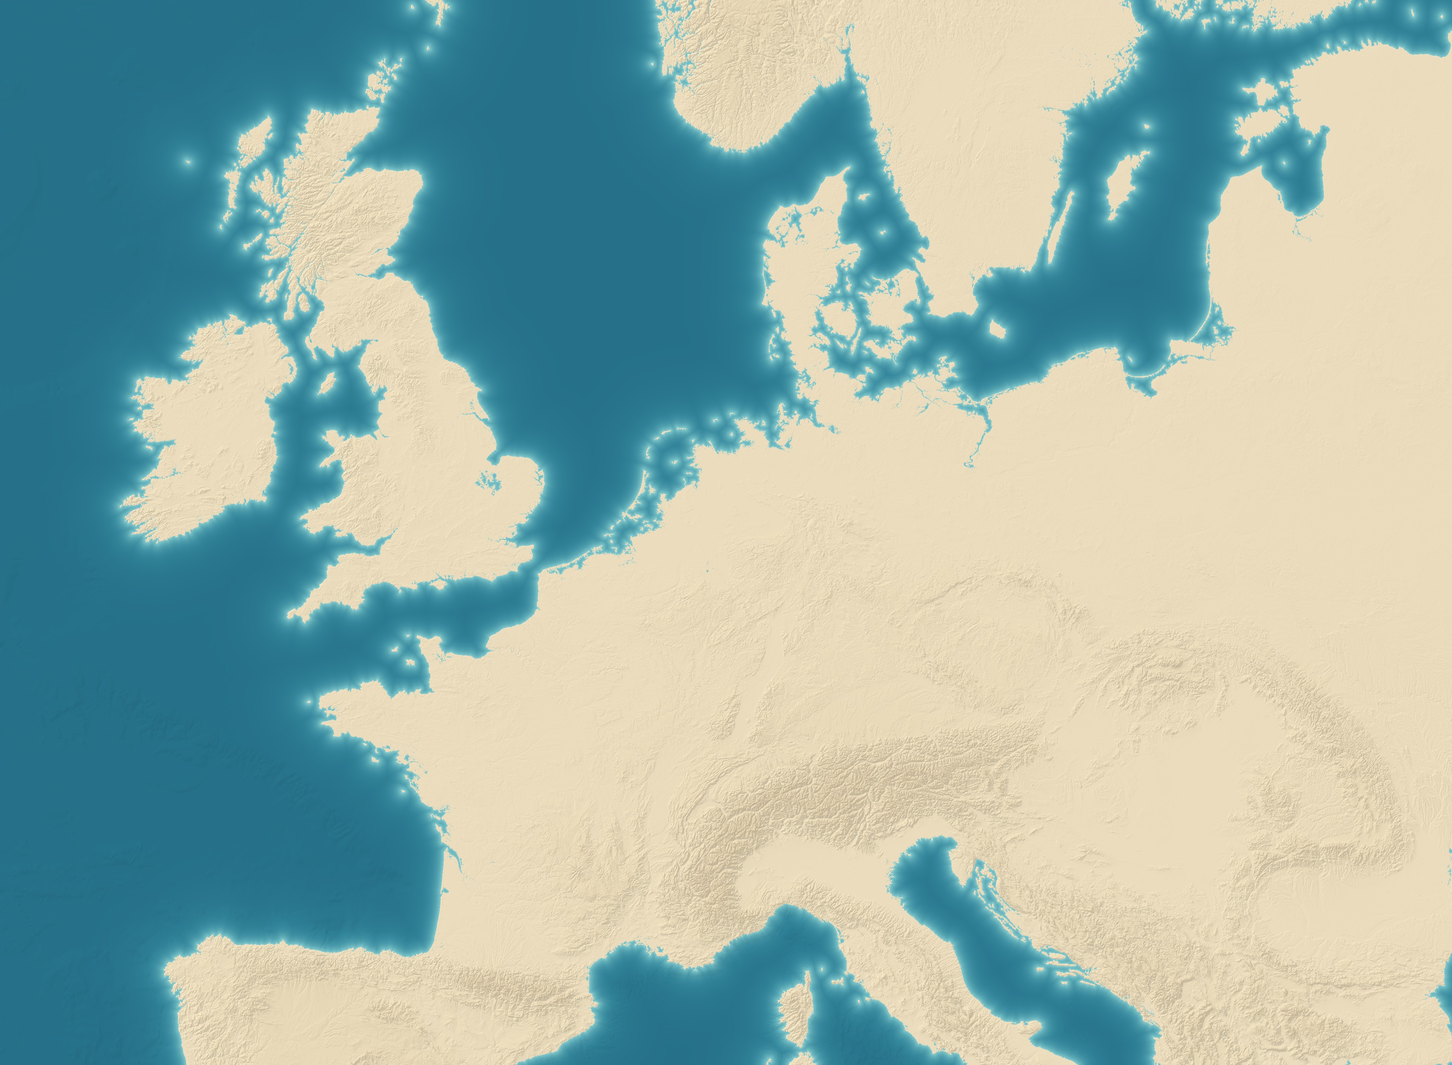
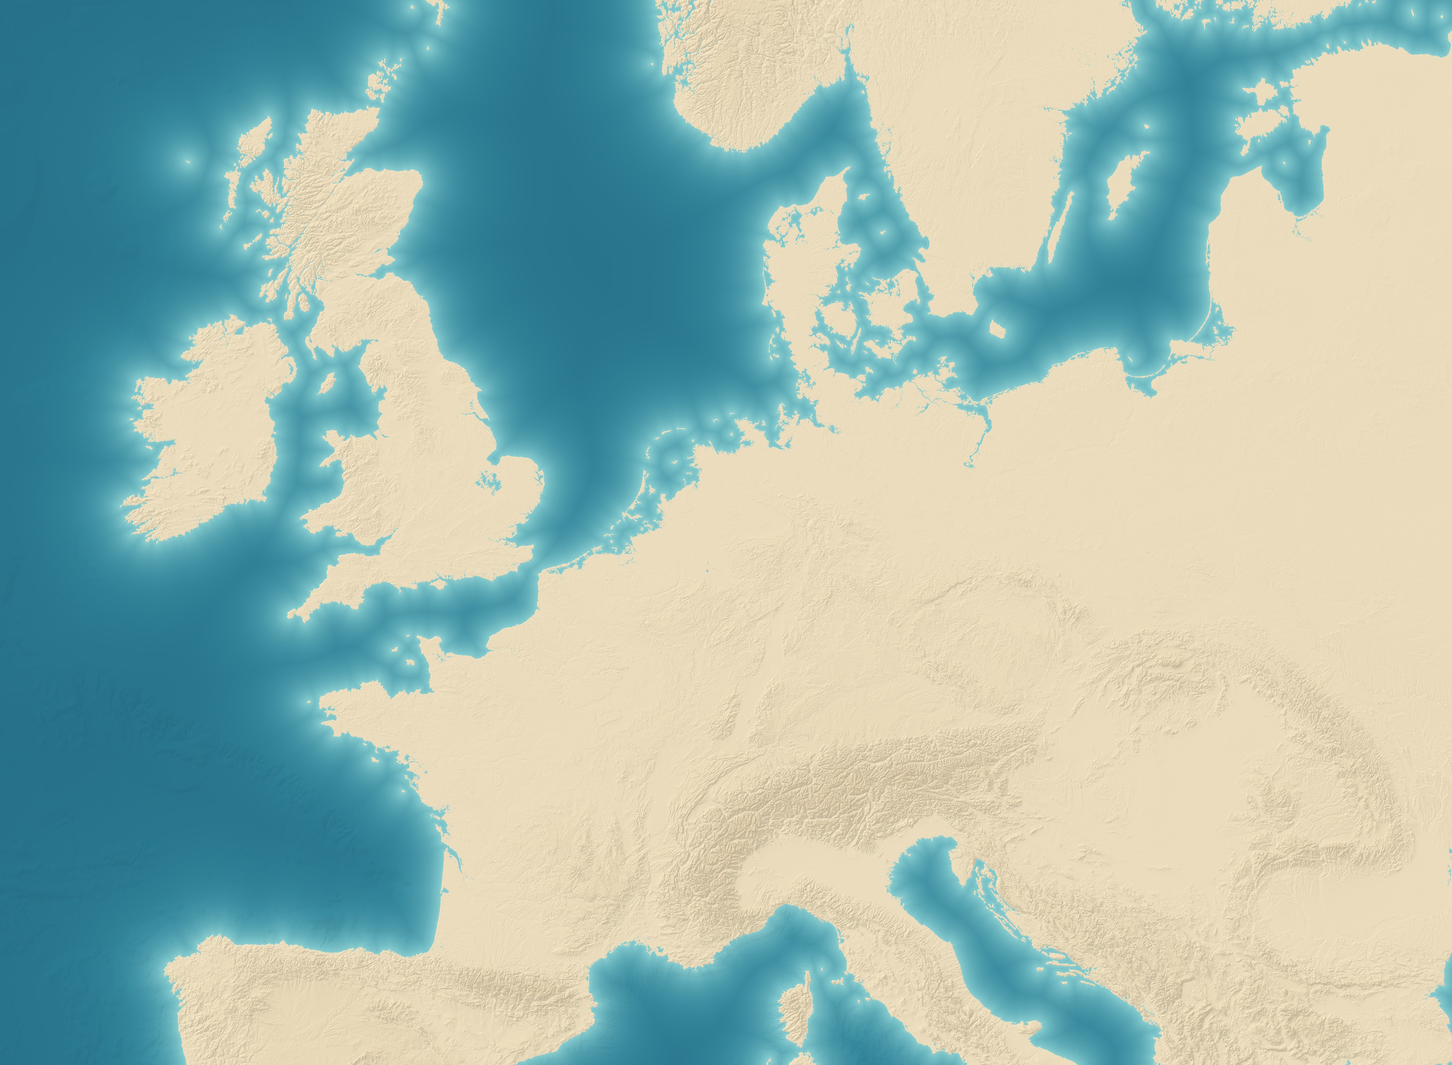
Mapa Raiz: marcadores só em terra e sem sobreposição, cartões arrumados, ondas no mar
- ícones soltos no meio da tela removidos; marcadores posicionados uma vez em terra, perto do lugar e sem cobrir rótulos/cartões
- enxames de pontos e ícones só em terra e sem empilhar
- cartões (número, pessoa, palavra, lista) deslocados para não se sobreporem
- ondas animadas no mar, recortadas pela máscara de água dos mosaicos
- brilho da costa com largura fixa em graus para os mosaicos emendarem

Claude-Session: https://claude.ai/code/session_01CBwL48erAGg3kCHvkXzDVL

diff --git a/video-alemao/engine/engine.js b/video-alemao/engine/engine.js
@@ -133,9 +133,10 @@ function makeTextures() {
   const n = document.createElement('canvas'); n.width = n.height = 512; const g = n.getContext('2d');
   const r = rng(7); const id = g.createImageData(512, 512);
   // ondulação: soma de senos irregulares
-  const waves = Array.from({ length: 9 }, () => [r() * 6.28, (r() * 0.03 + 0.012), r() * 6.28, r() * 0.5 + 0.5]);
+  // vetores de onda inteiros: a textura emenda sem costura quando repete
+  const waves = Array.from({ length: 9 }, () => { const a = r() * 6.28, f = 2 + Math.round(r() * 6); return [Math.round(Math.cos(a) * f), Math.round(Math.sin(a) * f) || 1, r() * 6.28, r() * 0.5 + 0.5]; });
   for (let y = 0; y < 512; y++) for (let x = 0; x < 512; x++) {
-    let v = 0; for (const [a, f, ph, amp] of waves) v += amp * Math.sin((x * Math.cos(a) + y * Math.sin(a)) * f * 6.28 / 6.28 * 2 + ph);
+    let v = 0; for (const [kx, ky, ph, amp] of waves) v += amp * Math.sin((kx * x + ky * y) / 512 * 6.2832 + ph);
     v = (v / 5 + 1) / 2; const i = (y * 512 + x) * 4;
     id.data[i] = id.data[i + 1] = id.data[i + 2] = 255; id.data[i + 3] = Math.round(clamp(v) * 40);
   }
@@ -169,8 +170,30 @@ function proj(mx, my) {
 const geoS = (cam, lon, lat) => { const [x, y] = toScreen(cam, lon, lat); return proj(x, y); };
 
 let MOS = [];
+// borda esfumada nos mosaicos mais detalhados, para não aparecer a emenda com o de baixo
+function featherMosaics(list) {
+  for (const m of list) {
+    const im = IMG['mos_' + m.name]; if (!im) continue;
+    // máscara do mar (meia resolução): onde o azul domina
+    const mk = document.createElement('canvas'); mk.width = im.width >> 1; mk.height = im.height >> 1; const mg = mk.getContext('2d');
+    mg.drawImage(im, 0, 0, mk.width, mk.height); const d = mg.getImageData(0, 0, mk.width, mk.height), px = d.data;
+    for (let i = 0; i < px.length; i += 4) { const water = px[i + 2] > px[i] + 12; px[i] = px[i + 1] = px[i + 2] = 255; px[i + 3] = water ? 255 : 0; }
+    mg.putImageData(d, 0, 0); IMG['msk_' + m.name] = mk;
+    if (m.name === 'mundo') continue;
+    const c = document.createElement('canvas'); c.width = im.width; c.height = im.height; const g = c.getContext('2d');
+    g.drawImage(im, 0, 0); g.globalCompositeOperation = 'destination-out';
+    const e = Math.round(Math.min(c.width, c.height) * 0.06);
+    for (const [x0, y0, x1, y1, rx, ry, rw, rh] of [[0, 0, e, 0, 0, 0, e, c.height], [c.width, 0, c.width - e, 0, c.width - e, 0, e, c.height], [0, 0, 0, e, 0, 0, c.width, e], [0, c.height, 0, c.height - e, 0, c.height - e, c.width, e]]) {
+      const gr = g.createLinearGradient(x0, y0, x1, y1); gr.addColorStop(0, 'rgba(0,0,0,1)'); gr.addColorStop(1, 'rgba(0,0,0,0)'); g.fillStyle = gr; g.fillRect(rx, ry, rw, rh);
+    }
+    IMG['mos_' + m.name] = c;
+  }
+}
 function drawRelief(cam) {
-  mctx.fillStyle = '#06122F'; mctx.fillRect(0, 0, MW, MH);
+  mctx.fillStyle = '#06122F'; mctx.fillRect(0, 0, MW, MH); drawMos(mctx, cam, 'mos_', 1);
+}
+// desenha os mosaicos que cobrem a vista (pre = 'mos_' imagem, 'msk_' máscara do mar), na escala k do canvas de destino
+function drawMos(g, cam, pre, k) {
   const vx0 = cam.x - MW / 2 / cam.s, vx1 = cam.x + MW / 2 / cam.s, vy0 = cam.y - MH / 2 / cam.s, vy1 = cam.y + MH / 2 / cam.s;
   const nat = m => m.w / (m.x1 - m.x0);
   const cover = MOS.filter(m => m.x0 <= vx0 && m.x1 >= vx1 && m.y0 <= vy0 && m.y1 >= vy1).sort((a, b) => a.z - b.z);
@@ -178,13 +201,13 @@ function drawRelief(cam) {
   let prev = null;
   for (const m of list) {
     let a = 1; if (prev) a = clamp((cam.s - 0.5 * nat(prev)) / (0.6 * nat(prev)));
-    if (a > 0 && IMG['mos_' + m.name]) {
+    if (a > 0 && IMG[pre + m.name]) {
       const ix0 = Math.max(vx0, m.x0), ix1 = Math.min(vx1, m.x1), iy0 = Math.max(vy0, m.y0), iy1 = Math.min(vy1, m.y1);
-      const kx = m.w / (m.x1 - m.x0), ky = m.h / (m.y1 - m.y0);
+      const im = IMG[pre + m.name], kx = im.width / (m.x1 - m.x0), ky = im.height / (m.y1 - m.y0);
       const [dx0, dy0] = toScreenM(cam, ix0, iy1), [dx1, dy1] = toScreenM(cam, ix1, iy0);
-      mctx.globalAlpha = a; mctx.imageSmoothingQuality = 'high';
-      mctx.drawImage(IMG['mos_' + m.name], (ix0 - m.x0) * kx, (m.y1 - iy1) * ky, (ix1 - ix0) * kx, (iy1 - iy0) * ky, dx0, dy0, dx1 - dx0, dy1 - dy0);
-      mctx.globalAlpha = 1;
+      g.globalAlpha = a; g.imageSmoothingQuality = 'high';
+      g.drawImage(im, (ix0 - m.x0) * kx, (m.y1 - iy1) * ky, (ix1 - ix0) * kx, (iy1 - iy0) * ky, dx0 * k, dy0 * k, (dx1 - dx0) * k, (dy1 - dy0) * k);
+      g.globalAlpha = 1;
     }
     prev = m;
   }
@@ -195,8 +218,22 @@ function buildBorders() {
     const p = new Path2D(); for (const l of lines) { for (let i = 0; i < l.length; i += 2) i ? p.lineTo(l[i], l[i + 1]) : p.moveTo(l[i], l[i + 1]); } BPATH[k] = p;
   }
 }
+// ondas: textura de ondulação andando devagar, só no mar (a terra é recortada), em meia resolução
+const WV = document.createElement('canvas'); const wctx = WV.getContext('2d');
+function drawWaves(t, cam) {
+  const k = 0.5; if (WV.width !== MW * k) { WV.width = MW * k; WV.height = MH * k; }
+  const pat = wctx.createPattern(NOISE, 'repeat'); wctx.globalCompositeOperation = 'source-over'; wctx.clearRect(0, 0, WV.width, WV.height);
+  // duas camadas presas ao mapa, deslizando em direções diferentes
+  const ox = -cam.x * cam.s * k, oy = cam.y * cam.s * k;
+  for (const [vx, vy, sc, al] of [[16, 6, 1.6, 1], [-10, 12, 2.6, 0.8]]) {
+    wctx.save(); wctx.globalAlpha = al; wctx.translate(((ox + t * vx) % (512 * sc)), ((oy + t * vy) % (512 * sc))); wctx.scale(sc, sc);
+    wctx.fillStyle = pat; wctx.fillRect(-512, -512, WV.width / sc + 1024, WV.height / sc + 1024); wctx.restore();
+  }
+  wctx.globalCompositeOperation = 'destination-in'; drawMos(wctx, cam, 'msk_', k); wctx.globalCompositeOperation = 'source-over';
+  mctx.save(); mctx.globalCompositeOperation = 'screen'; mctx.globalAlpha = 0.85; mctx.drawImage(WV, 0, 0, MW, MH); mctx.restore();
+}
 function drawMap(t, cam, S) {
-  drawRelief(cam);
+  drawRelief(cam); if (ESTILO === 'b') drawWaves(t, cam);
   const span = W / cam.s, lod = span > 60 ? 'coarse' : 'fine'; LAND = LODS[lod].land;
   mctx.save(); mctx.setTransform(cam.s, 0, 0, -cam.s, MW / 2 - cam.x * cam.s, MH / 2 + cam.y * cam.s); mctx.lineJoin = 'round'; mctx.lineCap = 'round';
   // fronteiras terrestres (sem linha de costa)
@@ -244,6 +281,7 @@ function drawMap(t, cam, S) {
     for (let i = 0; i < sw.n; i++) {
       const ang = r() * 6.283, rad = Math.sqrt(r()) * sw.r, ti = sw.t0 + (i / sw.n) * (sw.dur || 3);
       const p = easeOut((t - ti) / 0.4); if (p <= 0) continue;
+      if (!landAt(sw.lon + Math.cos(ang) * rad, sw.lat + Math.sin(ang) * rad * 0.8)) continue; // ponto no mar não aparece
       const [x, y] = toScreen(cam, sw.lon + Math.cos(ang) * rad, sw.lat + Math.sin(ang) * rad * 0.8);
       mctx.globalAlpha = a * p; mctx.fillStyle = sw.color; mctx.beginPath(); mctx.arc(x, y, (sw.px || 5) * backOut(p), 0, 7); mctx.fill();
       mctx.strokeStyle = 'rgba(255,255,255,0.8)'; mctx.lineWidth = 1.2; mctx.stroke();
@@ -301,7 +339,7 @@ const MK = { school: 'school', newspaper: 'newspaper', rolled_newspaper: 'newspa
   door: 'door-open', cooking: 'cooking-pot', pot_of_food: 'cooking-pot', tree: 'tree-pine', tree2: 'tree-pine', flag: 'flag', microphone: 'mic', classical_building: 'landmark', cross_mark: 'x',
   check_mark_button: 'check', ship: 'ship', ship2: 'ship', passenger_ship: 'ship', canoe: 'sailboat', sailboat: 'sailboat', spiral_calendar: 'calendar', tractor: 'tractor', hammer: 'hammer', bell: 'bell', envelope: 'mail', sparkles: 'sparkles', fearful_face: 'user', dove: 'heart-handshake', jar: 'cooking-pot', leafy_green: 'sprout' };
 function drawIcon(img, x, y, sz, a, scale = 1) {
-  if (MARCAS && MK[img] && IMG['mk_' + MK[img]]) return drawMarker(MK[img], x, y, sz, a, scale);
+  if (MARCAS && MK[img] && IMG['mk_' + MK[img]]) return drawMarker(MK[img], x, y, Math.min(sz, 104), a, scale);
   if (!IMG[img]) return;
   ctx.save(); ctx.globalAlpha = a; ctx.shadowColor = 'rgba(0,0,0,0.45)'; ctx.shadowBlur = 16; ctx.shadowOffsetY = 8;
   const im = IMG[img], s = sz * scale, k = Math.min(s / im.width, s / im.height);
@@ -327,9 +365,9 @@ const hit = (b) => BOXES.some(o => b[0] < o[2] && b[2] > o[0] && b[1] < o[3] && 
 function drawIcons(t, cam, S) {
   for (const ic of S.icons) {
     const a = vis(t, ic.t0, ic.t1, 0.2, 0.35); if (!a) continue;
-    let x, y, f = 1; if (ic.sx != null) { x = ic.sx; y = ic.sy; } else { [x, y, f] = geoS(cam, ic.lon, ic.lat); x += (ic.dx || 0) * f; y += (ic.dy || 0) * f; }
-    const size = (ic.size || 96) * (ic.sx != null ? 1 : f);
-    if (ic.sx == null) for (let k = 0; k < 8 && hit([x - size / 2, y - size / 2, x + size / 2, y + size / 2]); k++) x += size * 0.35;
+    if (ic._skip) continue;
+    let x, y, f = 1; if (ic.sx != null) { x = ic.sx; y = ic.sy; } else { [x, y, f] = geoS(cam, ic.lon, ic.lat); const o = ic._off || [ic.dx || 0, ic.dy || 0]; x += o[0] * f; y += o[1] * f; }
+    const size = iconSize(ic) * (ic.sx != null ? 1 : f);
     const sc = backOut((t - ic.t0) / 0.45) * (1 + 0.03 * Math.sin(t * 3 + (ic.lon || 0)));
     let aa = a; if (ic.sink && t > ic.sink) { const p = clamp((t - ic.sink) / 1.6); y += p * 50; aa *= 1 - p; }
     const grey = ic.grey && t > ic.grey;
@@ -344,10 +382,46 @@ function drawIcons(t, cam, S) {
     const r = rng(sw.seed || 5);
     for (let i = 0; i < sw.n; i++) {
       const ang = r() * 6.283, rad = Math.sqrt(r()) * sw.r, ti = sw.t0 + (i / sw.n) * (sw.dur || 2.5);
-      const p = (t - ti) / 0.4; if (p <= 0) continue;
+      const p = (t - ti) / 0.4; if (p <= 0 || !landAt(sw.lon + Math.cos(ang) * rad, sw.lat + Math.sin(ang) * rad * 0.8)) continue;
       const [x, y, f] = geoS(cam, sw.lon + Math.cos(ang) * rad, sw.lat + Math.sin(ang) * rad * 0.8);
-      drawIcon(sw.img, x, y, (sw.size || 54) * f, a, backOut(p));
+      const h = (sw.size || 54) * f * 0.5, b = [x - h, y - h, x + h, y + h]; if (hit(b)) continue; // não empilha ícones
+      BOXES.push(b); drawIcon(sw.img, x, y, h * 2, a, backOut(p));
     }
+  }
+}
+const iconSize = ic => Math.min(ic.size || 96, 104);
+const LANDC = new Map();
+function landAt(lon, lat) {
+  const key = lon.toFixed(3) + ',' + lat.toFixed(3); if (LANDC.has(key)) return LANDC.get(key);
+  const [x, y] = merc(lon, lat); mctx.save(); mctx.setTransform(1, 0, 0, 1, 0, 0);
+  const r = LODS.fine.coast.some(c => x >= c.bbox[0] && x <= c.bbox[2] && y >= c.bbox[1] && y <= c.bbox[3] && mctx.isPointInPath(c.path, x, y));
+  mctx.restore(); LANDC.set(key, r); return r;
+}
+// ponto da tela está em terra firme? (sem inclinação; com inclinação aceita sempre)
+function onLand(cam, sx, sy) {
+  if (TILT) return true;
+  const x = cam.x + (sx - MW / 2) / cam.s, y = cam.y - (sy - MH / 2) / cam.s, lod = W / cam.s > 60 ? 'coarse' : 'fine';
+  mctx.save(); mctx.setTransform(1, 0, 0, 1, 0, 0);
+  const r = LODS[lod].coast.some(c => x >= c.bbox[0] && x <= c.bbox[2] && y >= c.bbox[1] && y <= c.bbox[3] && mctx.isPointInPath(c.path, x, y));
+  mctx.restore(); return r;
+}
+// decide uma vez, num instante fixo, onde cada ícone fica: em terra, perto do lugar e sem cobrir nada
+function placeIcons(S) {
+  const list = S.icons.filter(i => i.sx == null).sort((a, b) => a.t0 - b.t0);
+  for (const ic of list) ic._skip = true;
+  for (const ic of list) {
+    const tm = ic.t0 + 0.45; render(tm);
+    const cam = camera(tm), [ax, ay, f] = geoS(cam, ic.lon, ic.lat), sz = iconSize(ic) * f, r = sz / 2;
+    const extra = ic.label ? sz * 0.62 + 28 : 0;
+    const ok = (x, y) => x - r > 20 && x + r < W - 20 && y - r > 20 && y + r + extra < H - 130 &&
+      !hit([x - r, y - r, x + r, y + r + extra]) && [[0, 0], [r * .7, 0], [-r * .7, 0], [0, r * .7], [0, -r * .7]].every(([dx, dy]) => onLand(cam, x + dx, y + dy));
+    const want = [(ic.dx || 0) * f, (ic.dy || 0) * f], cands = [want];
+    for (const k of [0.75, 1.1, 1.5, 2, 2.6, 3.3]) {
+      const ring = []; for (let i = 0; i < 16; i++) { const a = i / 16 * 6.283; ring.push([want[0] + Math.cos(a) * k * sz, want[1] + Math.sin(a) * k * sz]); }
+      ring.sort((p, q) => Math.hypot(...p) - Math.hypot(...q)); cands.push(...ring);
+    }
+    const c = cands.find(([dx, dy]) => ok(ax + dx, ay + dy)) || cands.find(([dx, dy]) => onLand(cam, ax + dx, ay + dy)) || want;
+    ic._off = [c[0] / f, c[1] / f]; ic._skip = false;
   }
 }
 function tagLabel(text, x, y, a, size = 26, bg = C.tinta, fg = C.branco) {
@@ -427,6 +501,38 @@ function drawPills(t, S) {
     ctx.fillStyle = C.tinta; ctx.textAlign = 'center'; ctx.textBaseline = 'middle'; ctx.fillText(p.text, W / 2 + 12, H - 106 + up); ctx.restore();
   }
 }
+// retângulo de cada cartão (mesmas contas dos desenhos), para arrumar a tela antes de renderizar
+function cardRect(k, o) {
+  ctx.save(); let r;
+  if (k === 'numbers') { ctx.font = '800 120px "Bricolage Grotesque"'; const nw = ctx.measureText((o.prefix || '') + (o.raw || fmt(o.value)) + (o.suffix || '')).width; ctx.font = '700 28px Figtree'; ctx.letterSpacing = '3px'; const w = Math.max(nw, ctx.measureText(o.label.toUpperCase()).width) + 100; r = [(o.x ?? W / 2) - w / 2, o.y ?? 150, w, 230]; }
+  else if (k === 'people') { ctx.font = '800 46px "Bricolage Grotesque"'; const nw = ctx.measureText(o.name).width; ctx.font = '700 24px Figtree'; ctx.letterSpacing = '3px'; const w = Math.max(nw, ctx.measureText(o.role.toUpperCase()).width) + 290; r = [o.side === 'right' ? W - 90 - w : 90, o.y ?? 330, w, 220]; }
+  else if (k === 'words') r = [o.x ?? 90, o.y ?? 300, 640, o.meaning ? 300 : 240];
+  else if (k === 'dots') { const cols = o.cols || 10, cell = o.cell || 38, w = cols * cell + 80; r = [o.x ?? (W - 90 - w), o.y ?? 200, w, Math.ceil(o.total / cols) * cell + 170]; }
+  else if (k === 'lists') r = [W - 90 - 600, o.y ?? 200, 600, 100 + o.items.length * 92];
+  else if (k === 'rows') { const w = o.items.length * 220 + 40; r = [W / 2 - w / 2, o.y ?? 170, w, 250]; }
+  ctx.restore(); return r;
+}
+function layoutCards(S) {
+  const all = [];
+  for (const k of ['numbers', 'people', 'words', 'dots', 'lists', 'rows']) for (const o of S[k]) all.push({ k, o, r: cardRect(k, o) });
+  all.sort((a, b) => a.o.t0 - b.o.t0);
+  const done = [];
+  for (const c of all) {
+    const live = done.filter(d => d.o.t0 < c.o.t1 && c.o.t0 < d.o.t1);
+    const box = dy => [c.r[0] - 12, c.r[1] + dy - 12, c.r[0] + c.r[2] + 12, c.r[1] + c.r[3] + dy + 12];
+    const clash = dy => live.some(d => { const b = box(dy), e = [d.r[0], d.r[1] + (d.o._dy || 0), d.r[0] + d.r[2], d.r[1] + d.r[3] + (d.o._dy || 0)]; return b[0] < e[2] && b[2] > e[0] && b[1] < e[3] && b[3] > e[1]; });
+    let dy = 0;
+    if (clash(0)) for (const s of [40, -40, 80, -80, 120, -120, 160, -160, 200, -200, 240, 280, 320, 360, 400]) { const top = c.r[1] + s, bot = top + c.r[3]; if (top >= 40 && bot <= H - 140 && !clash(s)) { dy = s; break; } }
+    c.o._dy = dy; done.push(c);
+  }
+}
+// caixas dos cartões visíveis no instante t (para ícones e rótulos não ficarem por baixo)
+function cardBoxes(t, S) {
+  for (const k of ['numbers', 'people', 'words', 'dots', 'lists', 'rows']) for (const o of S[k]) {
+    if (!vis(t, o.t0, o.t1, 0.3, 0.35)) continue; const r = cardRect(k, o), dy = o._dy || 0;
+    BOXES.push([r[0] - 10, r[1] + dy - 10, r[0] + r[2] + 10, r[1] + r[3] + dy + 10]);
+  }
+}
 function card(x, y, w, h, a, fill = C.branco) {
   ctx.shadowColor = 'rgba(0,0,0,0.38)'; ctx.shadowBlur = 26; ctx.shadowOffsetY = 10; ctx.fillStyle = fill; rr(x, y, w, h, 22); ctx.fill(); ctx.shadowColor = 'transparent';
 }
@@ -438,7 +544,7 @@ function drawNumbers(t, S) {
     ctx.save(); ctx.globalAlpha = a; const sc = 0.85 + 0.15 * backOut((t - n.t0) / 0.45);
     ctx.font = '800 120px "Bricolage Grotesque"'; const nw = ctx.measureText((n.prefix || '') + (n.raw || fmt(n.value)) + (n.suffix || '')).width;
     ctx.font = '700 28px Figtree'; ctx.letterSpacing = '3px'; const lw = ctx.measureText(n.label.toUpperCase()).width;
-    const w = Math.max(nw, lw) + 100, h = 230, x = n.x ?? W / 2, y = n.y ?? 150;
+    const w = Math.max(nw, lw) + 100, h = 230, x = n.x ?? W / 2, y = (n.y ?? 150) + (n._dy || 0);
     ctx.translate(x, y + h / 2); ctx.scale(sc, sc); ctx.translate(-x, -(y + h / 2));
     card(x - w / 2, y, w, h, a);
     ctx.textAlign = 'center'; ctx.textBaseline = 'alphabetic'; ctx.letterSpacing = '0px';
@@ -450,7 +556,7 @@ function drawNumbers(t, S) {
 function drawWords(t, S) {
   for (const wd of S.words) {
     const a = vis(t, wd.t0, wd.t1, 0.3, 0.35); if (!a) continue;
-    const x = wd.x ?? 90, y = wd.y ?? 300, w = 640, h = wd.meaning ? 300 : 240;
+    const x = wd.x ?? 90, y = (wd.y ?? 300) + (wd._dy || 0), w = 640, h = wd.meaning ? 300 : 240;
     const slide = (1 - easeOut((t - wd.t0) / 0.45)) * -50;
     ctx.save(); ctx.globalAlpha = a; ctx.translate(slide, 0); card(x, y, w, h, a);
     tagLabelLeft(wd.lang, x + 36, y + 50, wd.langColor || C.acai);
@@ -472,7 +578,7 @@ function drawPeople(t, S) {
     const right = pp.side === 'right';
     ctx.save(); ctx.font = '800 46px "Bricolage Grotesque"'; const nw = ctx.measureText(pp.name).width;
     ctx.font = '700 24px Figtree'; ctx.letterSpacing = '3px'; const rw = ctx.measureText(pp.role.toUpperCase()).width; ctx.letterSpacing = '0px';
-    const w = Math.max(nw, rw) + 290, h = 220; const x = right ? W - 90 - w : 90, y = pp.y ?? 330;
+    const w = Math.max(nw, rw) + 290, h = 220; const x = right ? W - 90 - w : 90, y = (pp.y ?? 330) + (pp._dy || 0);
     const slide = (1 - easeOut((t - pp.t0) / 0.45)) * (right ? 60 : -60);
     ctx.globalAlpha = a; ctx.translate(slide, 0); card(x, y, w, h, a);
     const cx = x + 125, cy = y + h / 2, R = 82;
@@ -490,7 +596,7 @@ function drawDots(t, S) {
   for (const d of S.dots) {
     const a = vis(t, d.t0, d.t1, 0.35, 0.35); if (!a) continue;
     const cols = d.cols || 10, rows = Math.ceil(d.total / cols), cell = d.cell || 38;
-    const w = cols * cell + 80, h = rows * cell + 170; const x = d.x ?? (W - 90 - w), y = d.y ?? 200;
+    const w = cols * cell + 80, h = rows * cell + 170; const x = d.x ?? (W - 90 - w), y = (d.y ?? 200) + (d._dy || 0);
     ctx.save(); ctx.globalAlpha = a; card(x, y, w, h, a);
     ctx.textAlign = 'left'; ctx.fillStyle = C.tinta; ctx.font = '700 26px Figtree'; ctx.letterSpacing = '2px'; ctx.fillText(d.title.toUpperCase(), x + 40, y + 56); ctx.letterSpacing = '0px';
     for (let i = 0; i < d.total; i++) {
@@ -507,7 +613,7 @@ function drawDots(t, S) {
 function drawRows(t, S) {
   for (const row of S.rows) {
     const a = vis(t, row.t0, row.t1, 0.3, 0.35); if (!a) continue;
-    const n = row.items.length, cw = 220, w = n * cw + 40, h = 250, x = W / 2 - w / 2, y = row.y ?? 170;
+    const n = row.items.length, cw = 220, w = n * cw + 40, h = 250, x = W / 2 - w / 2, y = (row.y ?? 170) + (row._dy || 0);
     ctx.save(); ctx.globalAlpha = a; card(x, y, w, h, a);
     row.items.forEach((it, i) => {
       const ti = it.at ?? (row.t0 + i * 0.35); const p = (t - ti) / 0.45; if (p <= 0) return;
@@ -522,7 +628,7 @@ function drawRows(t, S) {
 function drawLists(t, S) {
   for (const L of S.lists) {
     const a = vis(t, L.t0, L.t1, 0.35, 0.35); if (!a) continue;
-    const w = 600, rowH = 92, h = 100 + L.items.length * rowH, x = W - 90 - w, y = L.y ?? 200;
+    const w = 600, rowH = 92, h = 100 + L.items.length * rowH, x = W - 90 - w, y = (L.y ?? 200) + (L._dy || 0);
     ctx.save(); ctx.globalAlpha = a; card(x, y, w, h, a);
     ctx.fillStyle = C.tinta; ctx.font = '700 26px Figtree'; ctx.letterSpacing = '2px'; ctx.textAlign = 'left'; ctx.fillText(L.title.toUpperCase(), x + 36, y + 58); ctx.letterSpacing = '0px';
     L.items.forEach((it, i) => {
@@ -581,7 +687,7 @@ function render(t) {
   mctx.setTransform(1, 0, 0, 1, 0, 0); mctx.globalAlpha = 1;
   ctx.setTransform(1, 0, 0, 1, 0, 0); ctx.globalAlpha = 1; ctx.filter = 'none'; ctx.clearRect(0, 0, W, H);
   const cam = camera(t), S = SCENE;
-  drawMap(t, cam, S); drawLabels(t, cam, S); drawRoutes(t, cam);
+  cardBoxes(t, S); drawMap(t, cam, S); drawLabels(t, cam, S); drawRoutes(t, cam);
   ctx.drawImage(OVER, 0, 0); // vinheta e grão
   drawPin(t, cam, S); drawIcons(t, cam, S);
   drawYear(t, S); drawChapter(t, S);

diff --git a/video-alemao/engine/index.html b/video-alemao/engine/index.html
@@ -10,9 +10,11 @@
   for (const [fam, file, weight, style] of fonts) { const f = new FontFace(fam, `url(fonts/${file}.woff2)`, { weight, style }); await f.load(); document.fonts.add(f); }
   const icons = ICON_LIST.map(n => [n, `../assets/icons/${n}.png`]);
   await loadImages([...icons, ['vargas','../assets/fotos/vargas.jpg'], ['pedro1','../assets/fotos/pedro1.jpg'], ['leopoldina','../assets/fotos/leopoldina.jpg'], ...MOSAICOS[ESTILO].map(m => ['mos_' + m.name, `../assets/relevo${ESTILO === 'a' ? '' : '-' + ESTILO}/${m.name}.jpg`])]);
+  featherMosaics(MOSAICOS[ESTILO]);
   MOS = MOSAICOS[ESTILO]; setTilt(+(Q.get('tilt') || 0)); makeTextures(); buildGeo(); buildBorders(); SCENE = buildScene();
   const marks = [...new Set([...SCENE.icons.filter(i => i.mark).map(i => i.mark), ...(MARCAS ? Object.values(MK) : [])])];
   await loadImages(marks.map(n => ['mk_' + n, `../assets/marcadores/${n}.svg`]));
+  layoutCards(SCENE); placeIcons(SCENE);
   window.READY = true;
 })().catch(e => { window.ERR = String(e.stack || e); });
 </script></body></html>

diff --git a/video-alemao/engine/timeline.js b/video-alemao/engine/timeline.js
@@ -22,7 +22,7 @@ function buildScene() {
   const hl = (t0, t1, name, color, o = {}) => S.highlights.push({ t0, t1, name, color, ...o });
   const blob = (t0, t1, place, r, color, o = {}) => S.blobs.push({ t0, t1, lon: place[0], lat: place[1], r, color, ...o });
   const icon = (t0, t1, img, place, o = {}) => S.icons.push({ t0, t1, img, lon: place[0], lat: place[1], ...o });
-  const sicon = (t0, t1, img, sx, sy, o = {}) => S.icons.push({ t0, t1, img, sx, sy, ...o });
+  const sicon = () => {}; // ícones soltos no meio da tela foram abolidos: marcador só aparece no mapa, no lugar a que se refere
   const label = (t0, t1, place, text, o = {}) => S.labels.push({ t0, t1, lon: place[0], lat: place[1], text, ...o });
   const route = (id, t0, t1, pts, o = {}) => ROUTES[id] = buildRoute({ t0, t1, pts, hide: t1 + 5, ...o });
   const person = (t0, t1, name, role, o = {}) => S.people.push({ t0, t1, name, role, ...o });

diff --git a/video-alemao/engine/relevo.py b/video-alemao/engine/relevo.py
@@ -49,7 +49,7 @@ def shade(E, z, ty_frac):
     az, alt = math.radians(315), math.radians(42)
     hs = np.sin(alt) * np.cos(slope) + np.cos(alt) * np.sin(slope) * np.cos(az - aspect)
     hs = np.clip(hs, 0, 1)
-    if STYLE == 'b': return shade_b(E, hs, land)
+    if STYLE == 'b': return shade_b(E, hs, land, z)
     # cores de terra (planície verde-oliva → planalto ocre → serra marrom → pico claro)
     stops_l = [(0, (128, 146, 92)), (200, (150, 160, 104)), (600, (178, 168, 118)), (1200, (170, 140, 98)), (2500, (150, 120, 92)), (4500, (228, 222, 214))]
     # cores do mar (plataforma rasa clara → oceano profundo anil)
@@ -64,7 +64,7 @@ def shade(E, z, ty_frac):
     rgb = np.where(land[..., None], col_l * shade_l, col_o * shade_o)
     return Image.fromarray(np.clip(rgb, 0, 255).astype(np.uint8))
 
-def shade_b(E, hs, land):
+def shade_b(E, hs, land, z=5):
     from scipy import ndimage
     # tira ilhotas de poucos pixels (montes submarinos que viram pontinhos brilhantes)
     lab, n = ndimage.label(land); sizes = ndimage.sum(land, lab, range(1, n + 1))
@@ -75,7 +75,8 @@ def shade_b(E, hs, land):
     col_l = base * (0.86 + 0.2 * hs[..., None])
     # mar turquesa, mais claro perto da costa (brilho) e mais fundo longe
     d = ndimage.distance_transform_edt(~land)
-    glow = np.exp(-d / 14)[..., None]; near = np.exp(-d / 60)[..., None]
+    k = 2.0 ** (z - 5)  # larguras fixas em graus, para os mosaicos de zoom diferente emendarem
+    glow = np.exp(-d / (12 * k))[..., None]; near = np.exp(-d / (50 * k))[..., None]
     deep = np.array((38, 112, 136), np.float32); mid = np.array((52, 140, 160), np.float32); light = np.array((150, 214, 214), np.float32)
     col_o = deep + (mid - deep) * near
     col_o = col_o + (light - col_o) * glow * 0.85
